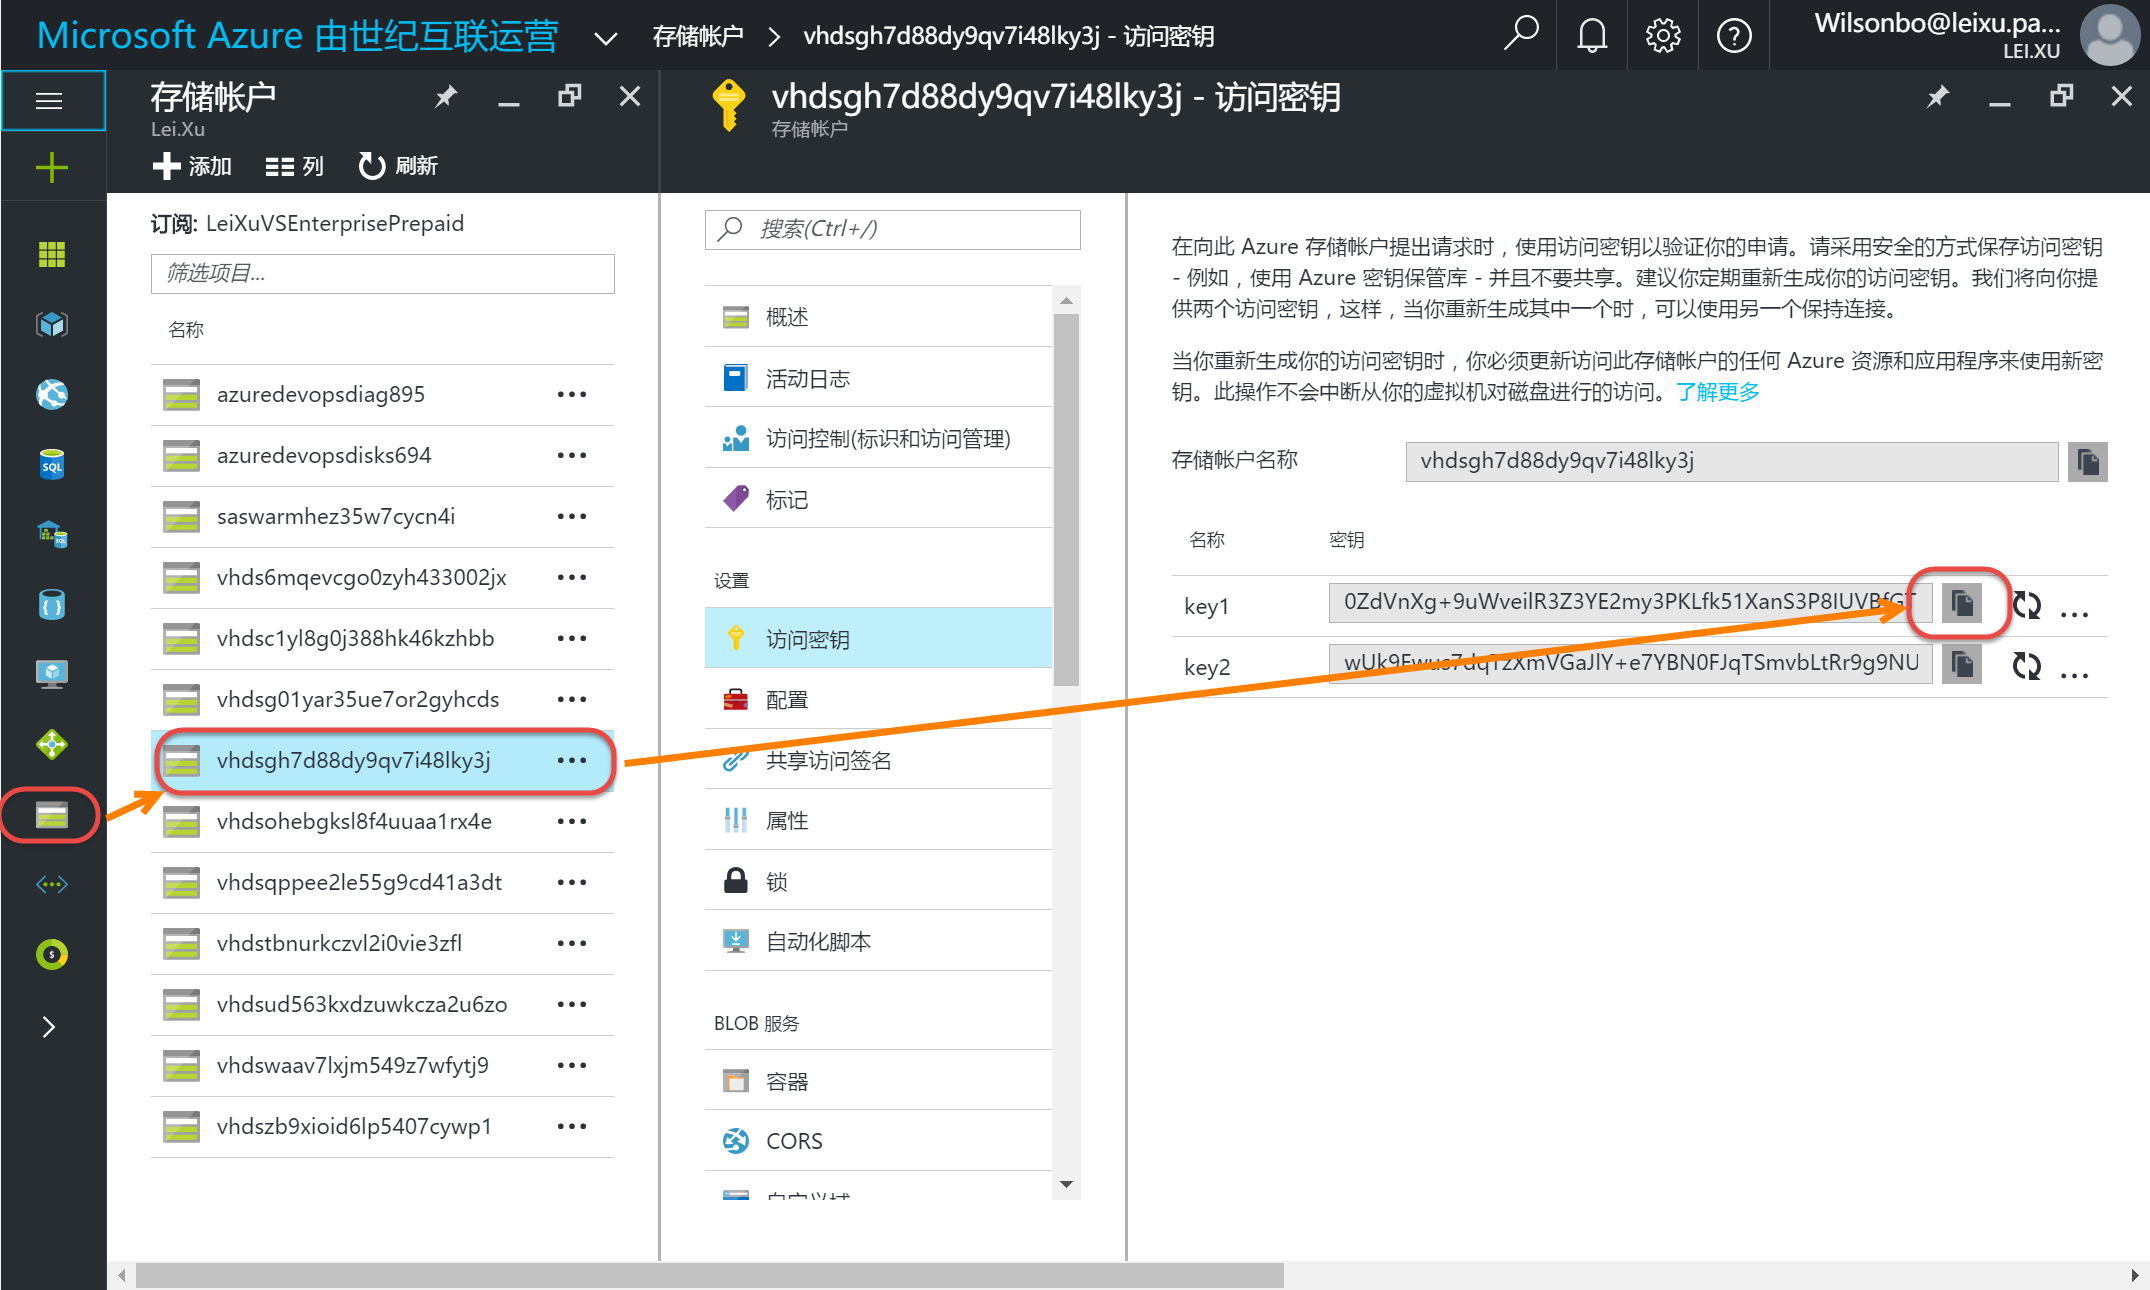
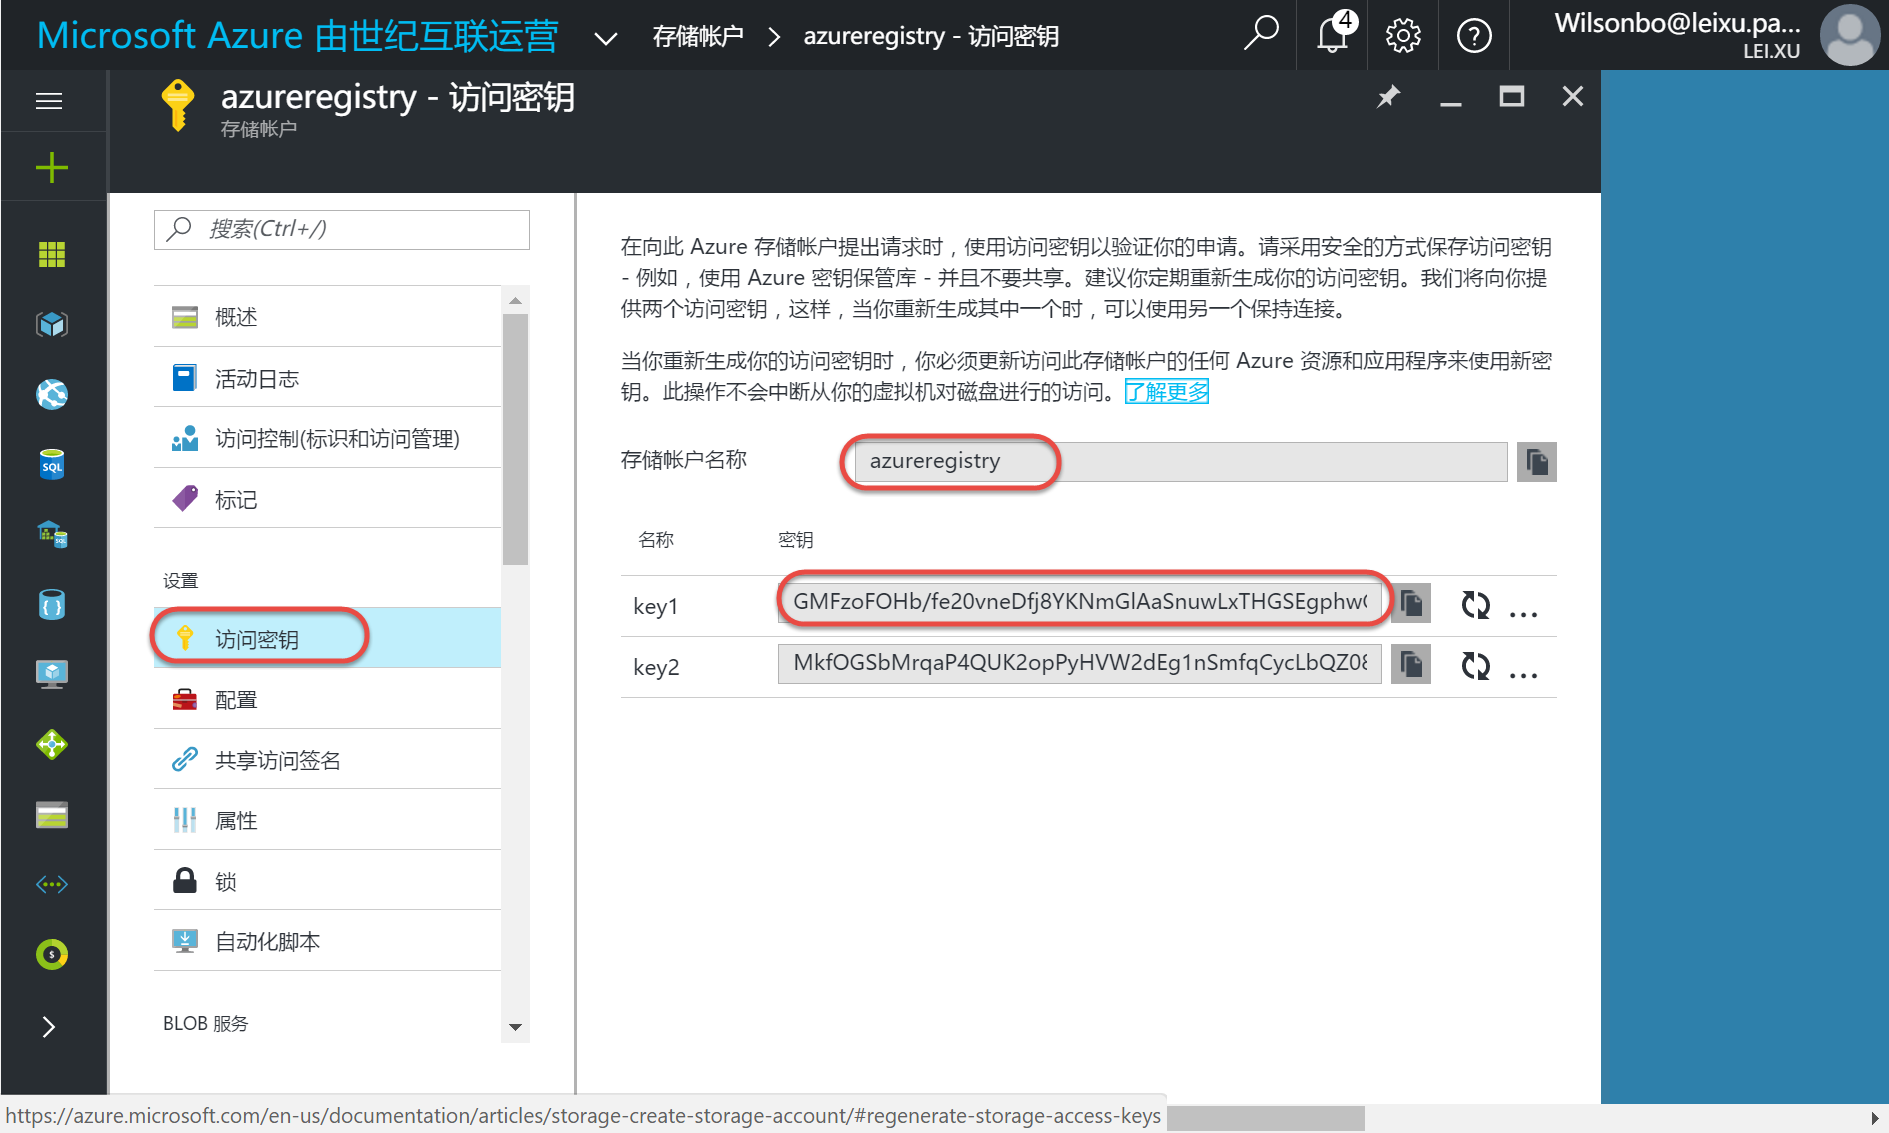
fix how to create local registry with azure -s-c

diff --git a/docs/Hands-On Lab/azure-create-docker-registry.rst b/docs/Hands-On Lab/azure-create-docker-registry.rst
@@ -5,32 +5,54 @@
     
     文档内容将与Docker v1.12.1保持同步，请确保你所使用的Docker版本与本文档的适用范围一致，再参照本文档进行Docker的安装和配置，以防出现联系过程中系统不对称导致的问题。
 
-登录Azure获取存储访问密钥
+
+在Azure中新建存储
 ~~~~~~~~~~~~~~~~~~~~~~~~~~~~~~~~
 
-点击 `这里<https://portal.azure.cn/>` 登录Azure门户。 登陆后查看存储信息，获取访问密钥。
+点击 `这里<https://portal.azure.cn/>` 登录Azure门户。 登陆后点击 **存储账户** | **添加**。
+
+.. figure:: images/azure-create-storage.png
+
+创建存储创建完毕后，点击新建存储账户添加容器。
+
+.. figure:: images/azure-create-storage-container.png
+
+.. figure:: images/azure-create-storage-container-wizard.png
+
+请记录容器名称，我们下面创建registry时会用到。
+
+登录Azure获取存储访问密钥
+~~~~~~~~~~~~~~~~~~~~~~~~~~~~~~~~
+添加完容器后，在当前新建存储账号中获取访问密钥。
 
 .. figure:: images/azure-storage-key.png
 
-使用azure story部署docker registry
+创建本地Registry并将存储位置指向Azure Storage
 ~~~~~~~~~~~~~~~~~~~~~~~~~~~~~~~~~~~~~~~~~~~~~~~~
-使用如下脚本创建批处理文件，在命令行工具中调用批处理文件：
+现在要在本地创建一个Registry服务，并设置实际image保存位置为刚才创建的Azure存储的容器中。这样我们通过调用docker push命令时会通过本地的registry将image推送到azure的存储容器中，这样更方便我们在azure的docker host上进行部署。使用如下脚本创建批处理文件，在命令行工具或者power shell中调用批处理文件：
 
 .. code-block:: text
 
     docker run -d -p 5000:5000 ^
     -e REGISTRY_STORAGE=azure ^
-    -e REGISTRY_STORAGE_AZURE_ACCOUNTNAME="vhdsgh7d88dy9qv7i48lky3j" ^
[1 lines of base64/hex data omitted]
-    -e REGISTRY_STORAGE_AZURE_CONTAINER="azureRegistry" ^
+    -e REGISTRY_STORAGE_AZURE_ACCOUNTNAME="{azure storage account name}" ^
+    -e REGISTRY_STORAGE_AZURE_ACCOUNTKEY="{azure storage account key}" ^
+    -e REGISTRY_STORAGE_AZURE_CONTAINER="{azure storage container name}" ^
     -e REGISTRY_STORAGE_AZURE_REALM="core.chinacloudapi.cn" ^
     --name=registry ^
     --restart=always ^
     registry:2
 
+{azure storage account name}与{azure storage account key}参数可以在Azure存储账户的访问密钥界面获取。
+{azure storage container name}参数是第一步创建的存储容器名称。
+
 运行结果：
 
-.. figure:: create-docker-registry.png
+.. figure:: images/create-docker-registry.png
+
+可以在本地调用docker ps命令查看已经启动的容器，稍后我们会将build出来的docker image放入这个容器中。
+
+.. figure:: images/docker-ps.png
 
 
 

diff --git a/docs/Hands-On Lab/index.rst b/docs/Hands-On Lab/index.rst
@@ -9,5 +9,6 @@
    debug-dotnet-core-webapp-in-docker
    azure-create-docker-host
    azure-create-docker-registry
+   build-docker-image-push-deploy
    
    
